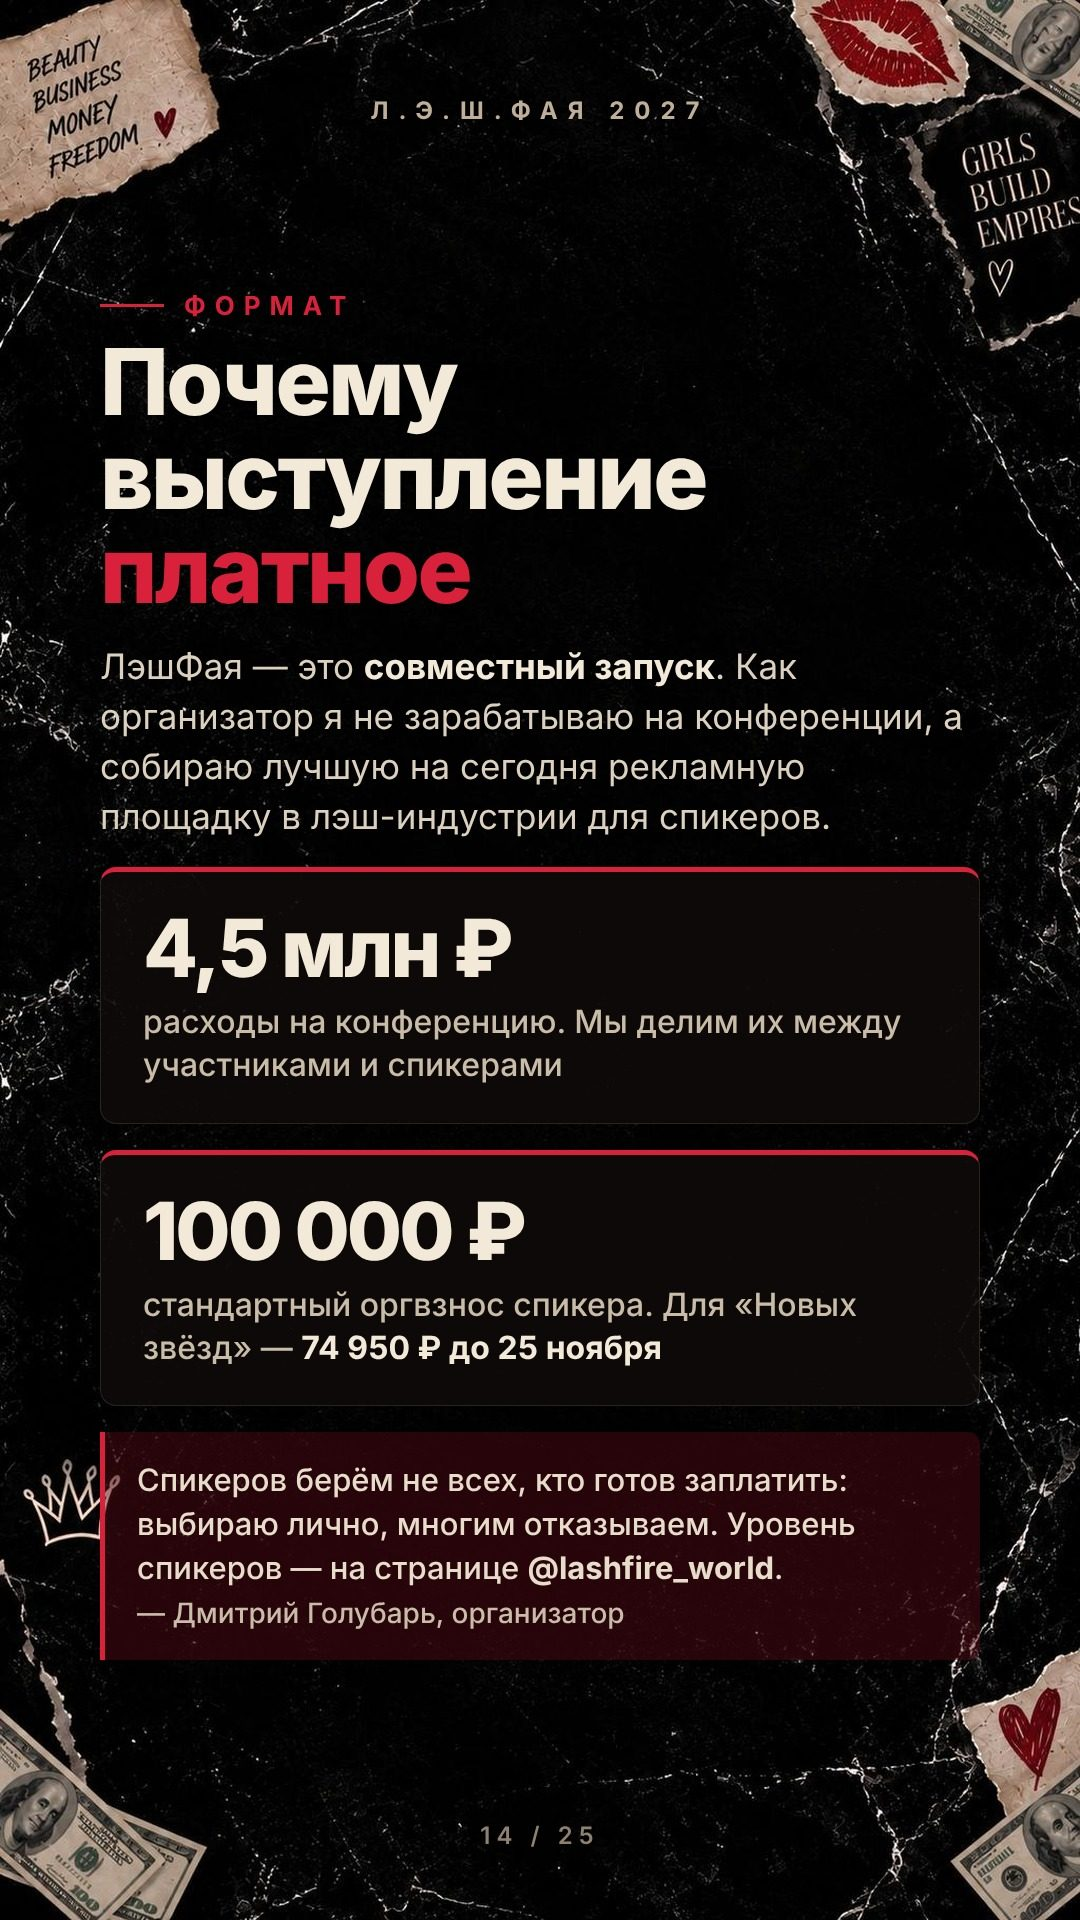
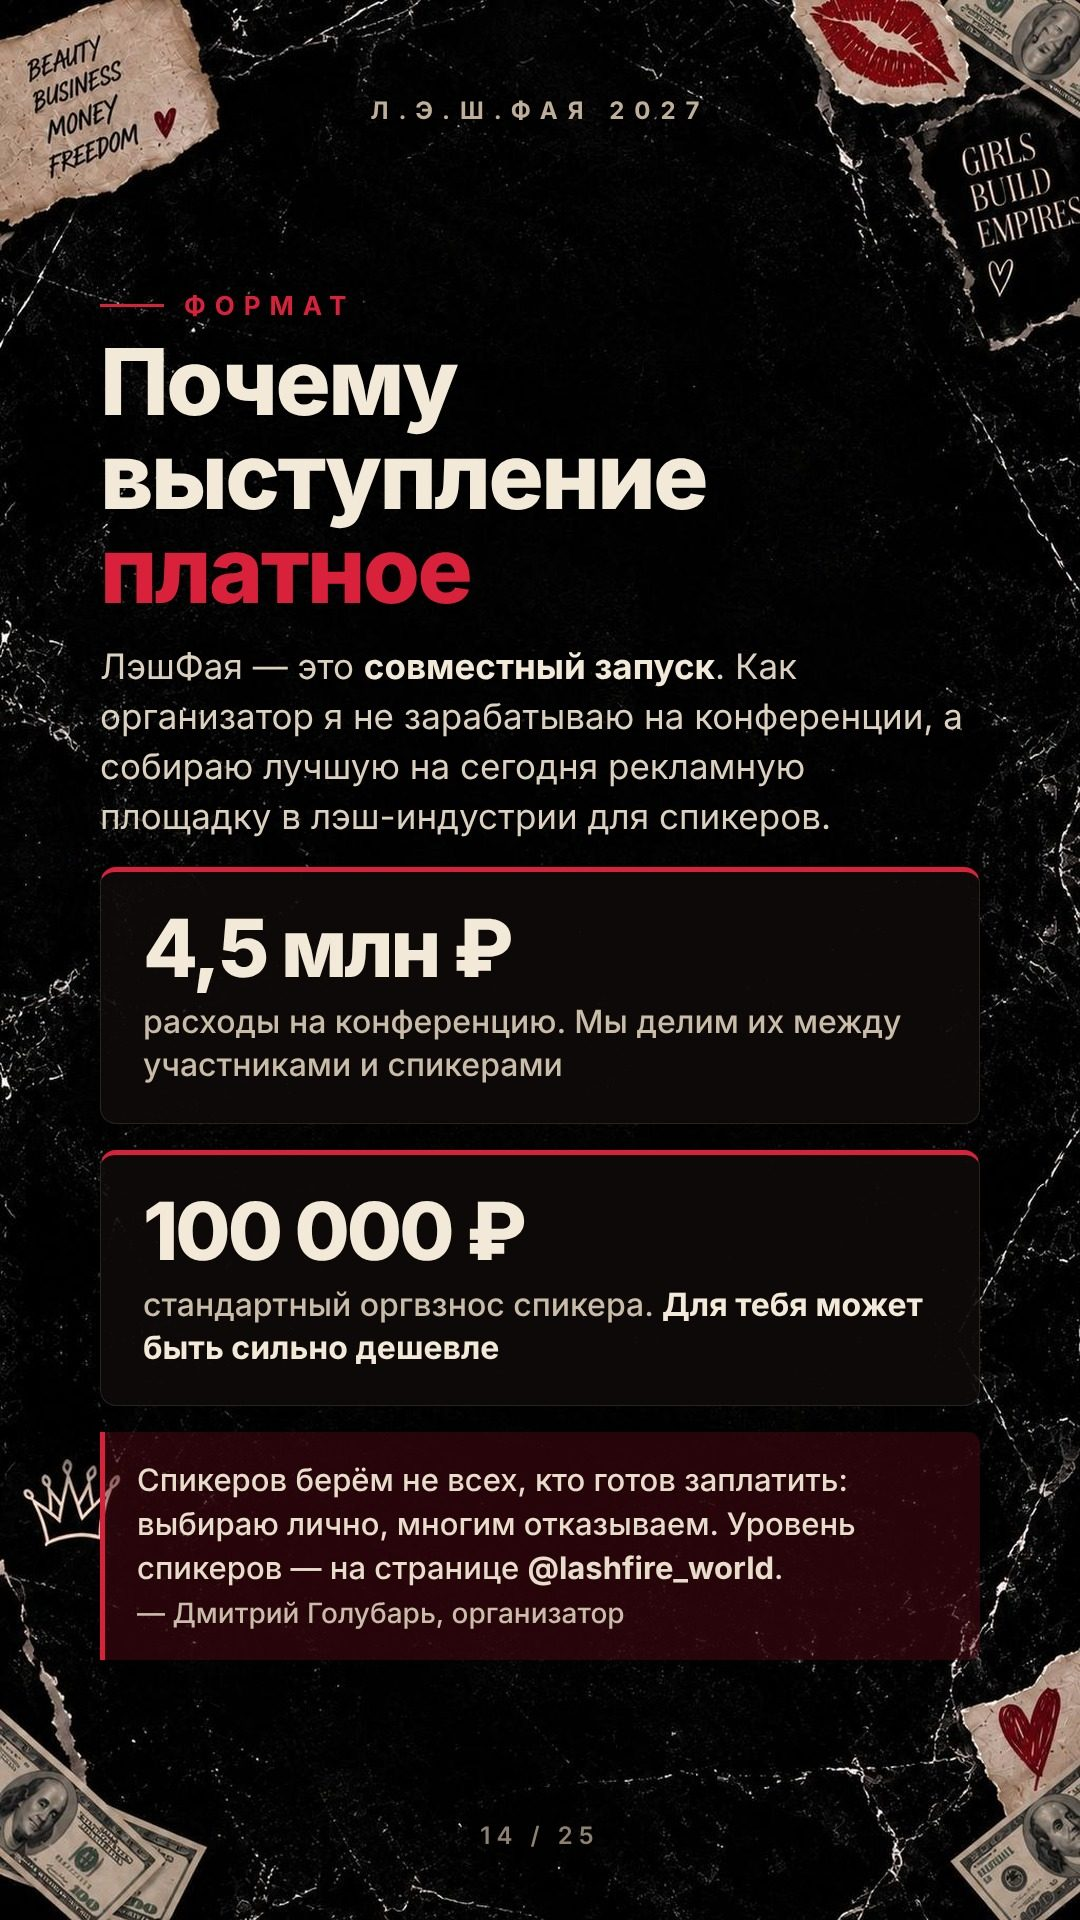
Ссылка на @lashfire_world, оргвзнос без конкретной цены
Claude-Session: https://claude.ai/code/session_01KxHKsqFZP9q9nJcN93KArK

Changed region(s): [[0.1222, 0.6875, 0.6111, 0.7188], [0.6111, 0.6562, 0.8556, 0.6875]]

diff --git a/index.html b/index.html
@@ -6,7 +6,7 @@
 <meta name="description" content="Стань новой звездой лэш-индустрии: выступление на ЛэшФая 2027, 14–15 января, Москва.">
 <meta property="og:title" content="ЛэшФая 2027 — предложение для спикеров">
 <meta property="og:description" content="Стань новой звездой лэш-индустрии. 14–15 января 2027, Москва.">
-<meta property="og:image" content="https://speaker-lash.vercel.app/og.jpg?v=1794305814">
+<meta property="og:image" content="https://speaker-lash.vercel.app/og.jpg?v=1794306018">
 <meta property="og:url" content="https://speaker-lash.vercel.app/">
 <meta property="og:type" content="website">
 <meta name="theme-color" content="#050404">
@@ -22,32 +22,36 @@ img{display:block;width:100%;height:auto}
 .hint i{display:block;font-style:normal;font-size:30px;margin-top:4px;color:#D9213C;animation:b 1.4s ease-in-out infinite}
 @keyframes b{0%,100%{transform:translateY(0)}50%{transform:translateY(8px)}}
 html{scroll-behavior:smooth}
+.ig{display:block;margin:0 16px 20px;padding:16px;border:1px solid rgba(243,233,216,.35);border-radius:14px;color:#F3E9D8;text-align:center;font:600 16px/1.2 -apple-system,Inter,Arial,sans-serif;text-decoration:none;background:#0e0a09}
 </style></head>
 <body><main>
-<a class="first" href="#s2"><img src="s/sp_01.jpg?v=1794305814" width="1080" height="1920" alt="Слайд 1"><span class="hint">Листайте вниз<i>↓</i></span></a>
-<span id="s2"></span><img src="s/sp_02.jpg?v=1794305814" width="1080" height="1920" alt="Слайд 2">
-<img src="s/sp_03.jpg?v=1794305814" width="1080" height="1920" alt="Слайд 3" loading="lazy">
-<img src="s/sp_04.jpg?v=1794305814" width="1080" height="1920" alt="Слайд 4" loading="lazy">
-<img src="s/sp_05.jpg?v=1794305814" width="1080" height="1920" alt="Слайд 5" loading="lazy">
-<img src="s/sp_06.jpg?v=1794305814" width="1080" height="1920" alt="Слайд 6" loading="lazy">
-<img src="s/sp_07.jpg?v=1794305814" width="1080" height="1920" alt="Слайд 7" loading="lazy">
-<img src="s/sp_08.jpg?v=1794305814" width="1080" height="1920" alt="Слайд 8" loading="lazy">
-<img src="s/sp_09.jpg?v=1794305814" width="1080" height="1920" alt="Слайд 9" loading="lazy">
-<img src="s/sp_10.jpg?v=1794305814" width="1080" height="1920" alt="Слайд 10" loading="lazy">
-<img src="s/sp_11.jpg?v=1794305814" width="1080" height="1920" alt="Слайд 11" loading="lazy">
-<img src="s/sp_12.jpg?v=1794305814" width="1080" height="1920" alt="Слайд 12" loading="lazy">
-<img src="s/sp_13.jpg?v=1794305814" width="1080" height="1920" alt="Слайд 13" loading="lazy">
-<img src="s/sp_14.jpg?v=1794305814" width="1080" height="1920" alt="Слайд 14" loading="lazy">
-<img src="s/sp_15.jpg?v=1794305814" width="1080" height="1920" alt="Слайд 15" loading="lazy">
-<img src="s/sp_16.jpg?v=1794305814" width="1080" height="1920" alt="Слайд 16" loading="lazy">
-<img src="s/sp_17.jpg?v=1794305814" width="1080" height="1920" alt="Слайд 17" loading="lazy">
-<img src="s/sp_18.jpg?v=1794305814" width="1080" height="1920" alt="Слайд 18" loading="lazy">
-<img src="s/sp_19.jpg?v=1794305814" width="1080" height="1920" alt="Слайд 19" loading="lazy">
-<img src="s/sp_20.jpg?v=1794305814" width="1080" height="1920" alt="Слайд 20" loading="lazy">
-<img src="s/sp_21.jpg?v=1794305814" width="1080" height="1920" alt="Слайд 21" loading="lazy">
-<img src="s/sp_22.jpg?v=1794305814" width="1080" height="1920" alt="Слайд 22" loading="lazy">
-<img src="s/sp_23.jpg?v=1794305814" width="1080" height="1920" alt="Слайд 23" loading="lazy">
-<img src="s/sp_24.jpg?v=1794305814" width="1080" height="1920" alt="Слайд 24" loading="lazy">
-<img src="s/sp_25.jpg?v=1794305814" width="1080" height="1920" alt="Слайд 25" loading="lazy">
-<a class="cta" href="tel:+79234444906">Позвонить Дмитрию: +7 923 444-49-06</a>
+<a class="first" href="#s2"><img src="s/sp_01.jpg?v=1794306018" width="1080" height="1920" alt="Слайд 1"><span class="hint">Листайте вниз<i>↓</i></span></a>
+<span id="s2"></span><img src="s/sp_02.jpg?v=1794306018" width="1080" height="1920" alt="Слайд 2">
+<img src="s/sp_03.jpg?v=1794306018" width="1080" height="1920" alt="Слайд 3" loading="lazy">
+<img src="s/sp_04.jpg?v=1794306018" width="1080" height="1920" alt="Слайд 4" loading="lazy">
+<img src="s/sp_05.jpg?v=1794306018" width="1080" height="1920" alt="Слайд 5" loading="lazy">
+<a class="ig" href="https://www.instagram.com/lashfire_world/" target="_blank" rel="noopener">Открыть @lashfire_world в Instagram →</a>
+<img src="s/sp_06.jpg?v=1794306018" width="1080" height="1920" alt="Слайд 6" loading="lazy">
+<img src="s/sp_07.jpg?v=1794306018" width="1080" height="1920" alt="Слайд 7" loading="lazy">
+<img src="s/sp_08.jpg?v=1794306018" width="1080" height="1920" alt="Слайд 8" loading="lazy">
+<img src="s/sp_09.jpg?v=1794306018" width="1080" height="1920" alt="Слайд 9" loading="lazy">
+<img src="s/sp_10.jpg?v=1794306018" width="1080" height="1920" alt="Слайд 10" loading="lazy">
+<img src="s/sp_11.jpg?v=1794306018" width="1080" height="1920" alt="Слайд 11" loading="lazy">
+<img src="s/sp_12.jpg?v=1794306018" width="1080" height="1920" alt="Слайд 12" loading="lazy">
+<img src="s/sp_13.jpg?v=1794306018" width="1080" height="1920" alt="Слайд 13" loading="lazy">
+<img src="s/sp_14.jpg?v=1794306018" width="1080" height="1920" alt="Слайд 14" loading="lazy">
+<a class="ig" href="https://www.instagram.com/lashfire_world/" target="_blank" rel="noopener">Открыть @lashfire_world в Instagram →</a>
+<img src="s/sp_15.jpg?v=1794306018" width="1080" height="1920" alt="Слайд 15" loading="lazy">
+<img src="s/sp_16.jpg?v=1794306018" width="1080" height="1920" alt="Слайд 16" loading="lazy">
+<img src="s/sp_17.jpg?v=1794306018" width="1080" height="1920" alt="Слайд 17" loading="lazy">
+<img src="s/sp_18.jpg?v=1794306018" width="1080" height="1920" alt="Слайд 18" loading="lazy">
+<img src="s/sp_19.jpg?v=1794306018" width="1080" height="1920" alt="Слайд 19" loading="lazy">
+<img src="s/sp_20.jpg?v=1794306018" width="1080" height="1920" alt="Слайд 20" loading="lazy">
+<img src="s/sp_21.jpg?v=1794306018" width="1080" height="1920" alt="Слайд 21" loading="lazy">
+<img src="s/sp_22.jpg?v=1794306018" width="1080" height="1920" alt="Слайд 22" loading="lazy">
+<img src="s/sp_23.jpg?v=1794306018" width="1080" height="1920" alt="Слайд 23" loading="lazy">
+<img src="s/sp_24.jpg?v=1794306018" width="1080" height="1920" alt="Слайд 24" loading="lazy">
+<img src="s/sp_25.jpg?v=1794306018" width="1080" height="1920" alt="Слайд 25" loading="lazy">
+<a class="ig" style="margin-top:24px" href="https://www.instagram.com/lashfire_world/" target="_blank" rel="noopener">Страница конференции: @lashfire_world →</a>
+<a class="cta" style="margin-top:12px" href="tel:+79234444906">Позвонить Дмитрию: +7 923 444-49-06</a>
 </main></body></html>
